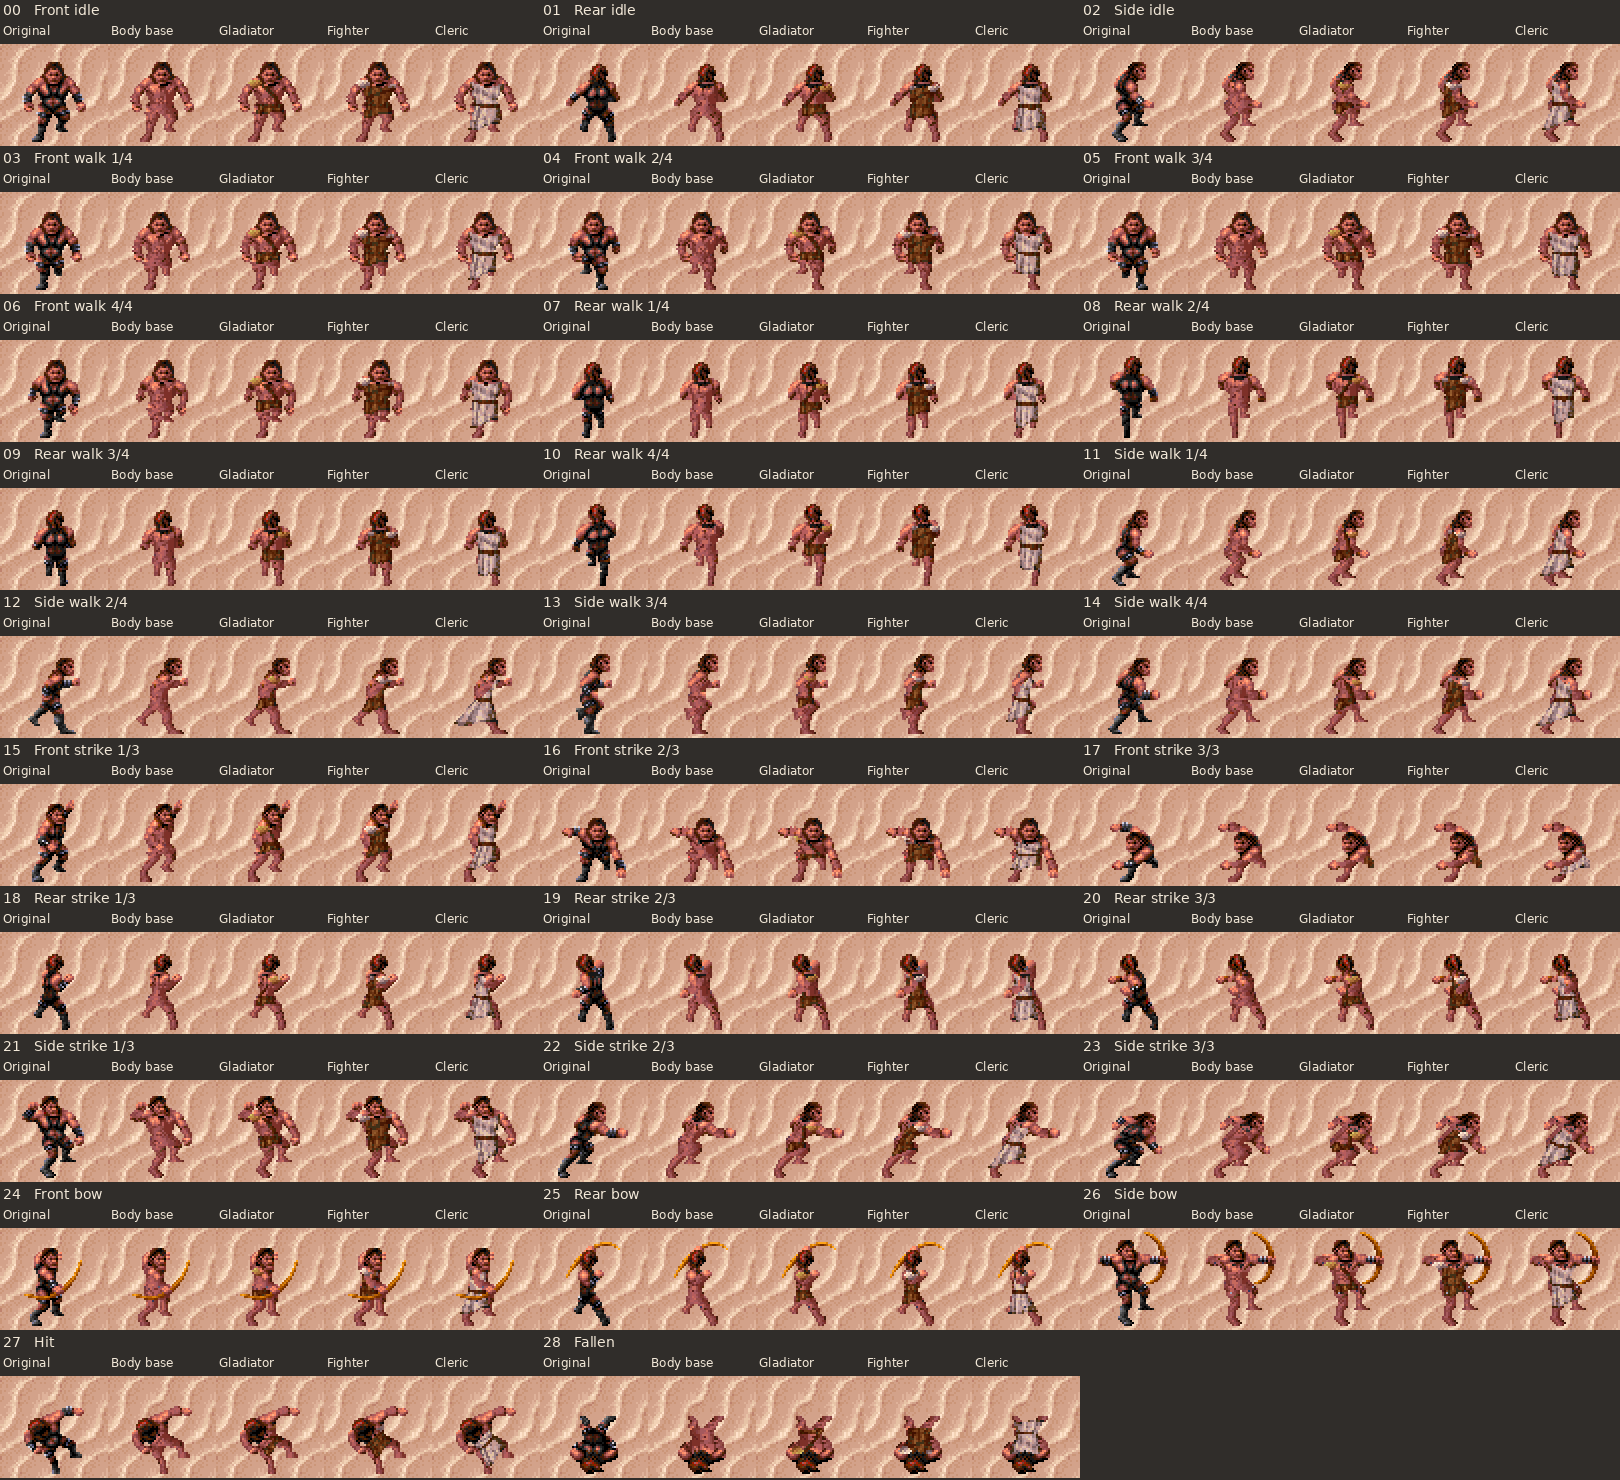
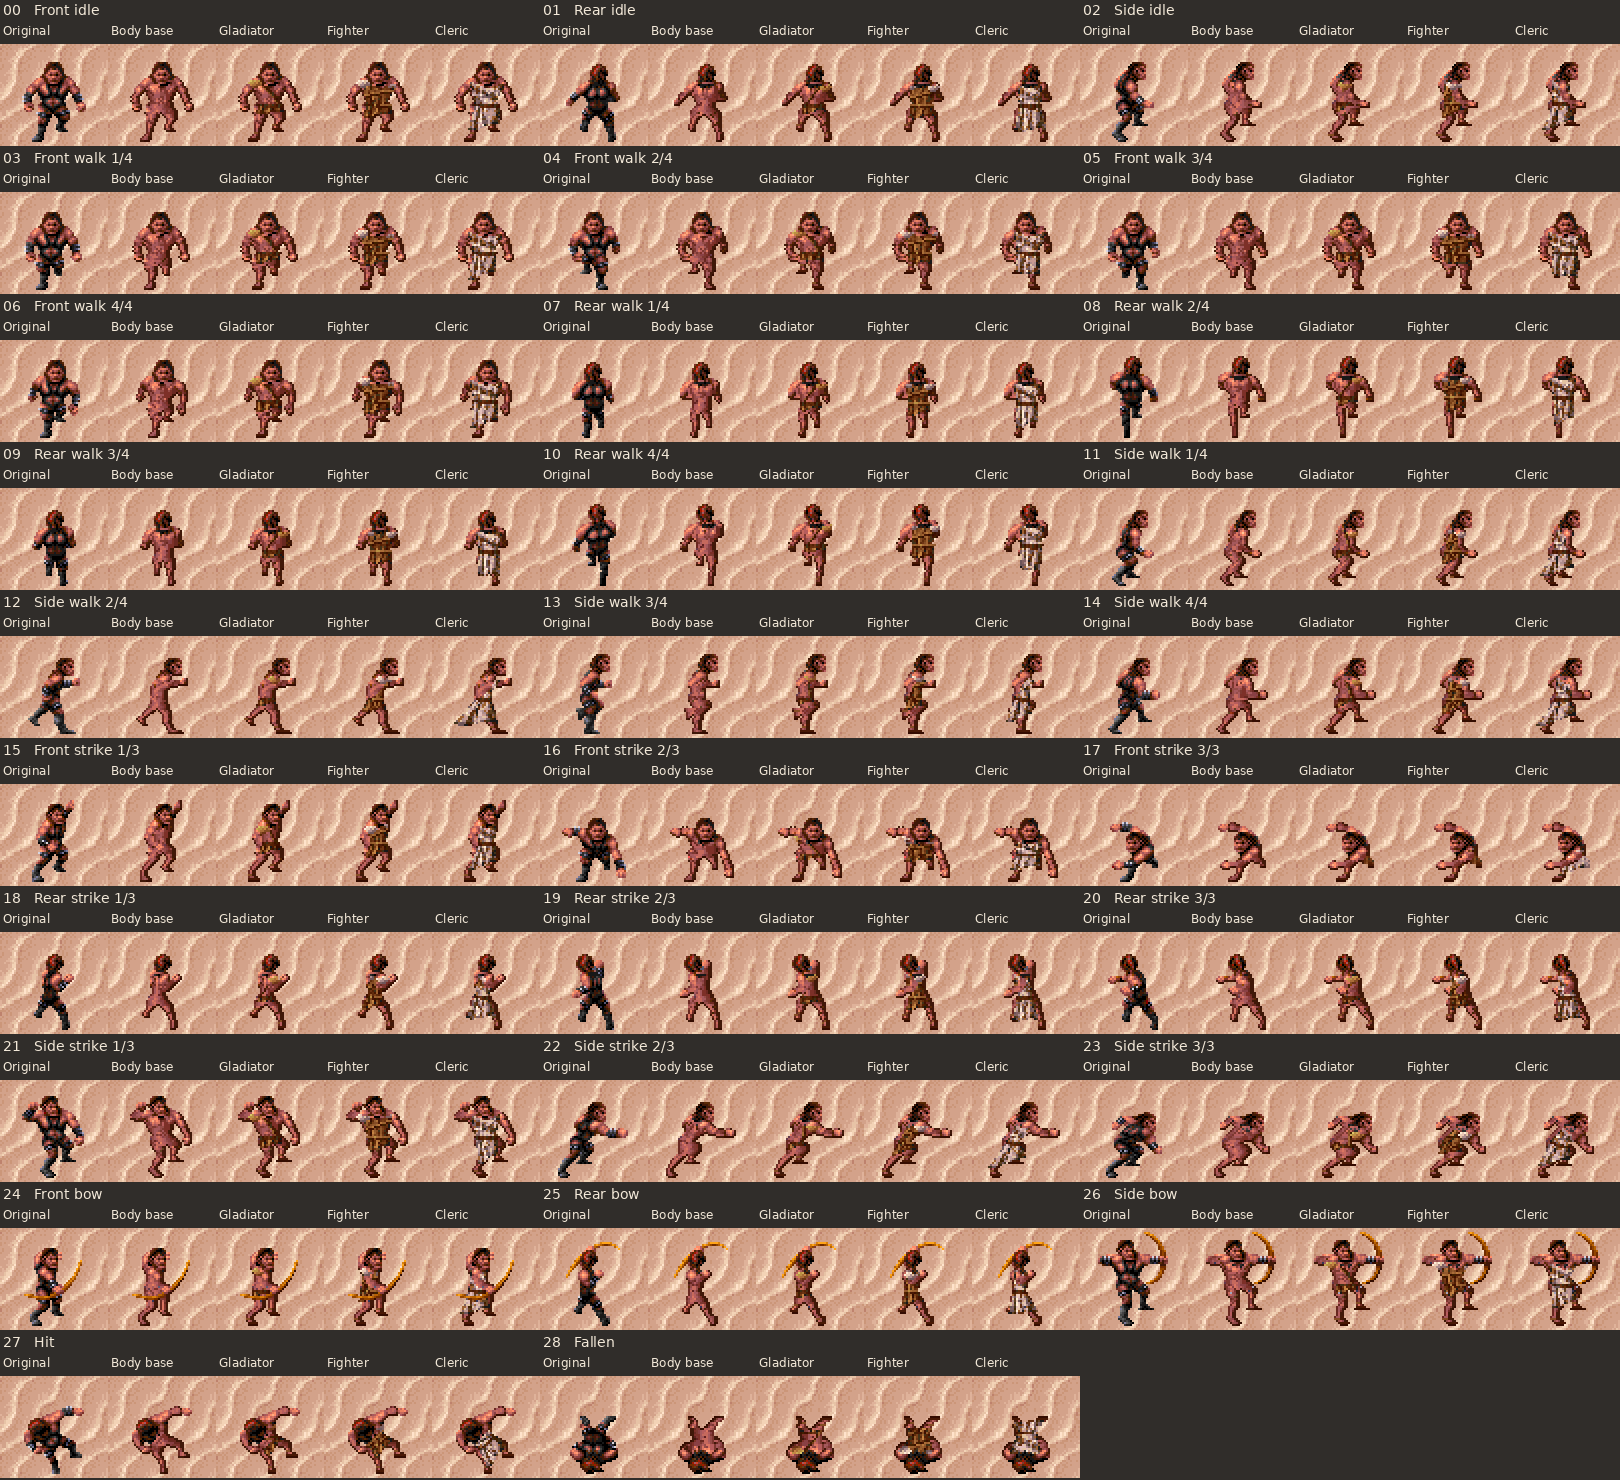
Deepen half-giant material contrast and restore the woman's profile hair

diff --git a/prototypes/halfgiantstudy.py b/prototypes/halfgiantstudy.py
@@ -71,6 +71,7 @@ ARMS = {
 LOW_HEAD = {16: (16, 8, 5, 5), 17: (12, 12, 5, 5), 23: (21, 6, 4, 5),
             27: (7, 13, 5, 6), 28: (12, 6, 5, 5)}
 SKIN = (129, 134, 133, 132, 131, 130, 144, 145, 146, 147, 148, 149, 151)
+LINEN = (208, 204, 207, 205, 92, 194, 206, 97, 121, 61, 199, 123, 125, 62, 63)
 BONE = (207, 205, 194, 206, 121, 199, 62, 63)
 BRONZE = (88, 90, 93, 95, 98, 100, 168, 169, 170)
 STOCK = {16, 17, 18, 19, 20, 21, 22, 23, 24, 25, 26, 27, 28, 29, 48, 49, 50, 51, 52, 194,
@@ -88,6 +89,48 @@ GUARD = ((8, 10), (21, 11), (8, 11), (7, 10), (7, 10), (6, 10), (6, 10), (16, 11
          (15, 11), (17, 11), (19, 11), (12, 11), (15, 10), (9, 11), (16, 11),
          (7, 14), (10, 10), None, (12, 12), (11, 11), (14, 12), (8, 10),
          (19, 12), (17, 11), (9, 11), (10, 16), (8, 16), (15, 9), (18, 11))
+
+
+# Midpoint of each sole on its last visible scanline, in the same upright
+# coordinates as CUTS. Trace the lifted foot separately from the planted one.
+SOLES = (
+    ((7, 39), (20, 34)), ((9, 33), (22, 38)), ((4, 39), (14, 31)),
+    ((8, 38), (17, 31)), ((8, 30), (17, 38)), ((9, 32), (18, 38)),
+    ((8, 38), (16, 30)), ((7, 37), (14, 32)), ((8, 40), (13, 30)),
+    ((8, 32), (15, 37)), ((10, 30), (15, 40)), ((4, 37), (10, 33)),
+    ((4, 33), (19, 37)), ((1, 32), (7, 39)), ((4, 37), (18, 31)),
+    ((2, 40), (14, 35)), ((9, 31), (22, 25)), ((7, 29), (22, 22)),
+    ((2, 31), (15, 37)), ((5, 33), (18, 37)), ((9, 33), (23, 37)),
+    ((14, 40), (23, 32)), ((2, 37), (13, 30)), ((2, 32), (12, 26)),
+    ((6, 38), (17, 33)), ((6, 35), (19, 41)), ((14, 46), (24, 38)),
+    ((16, 33), (26, 25)), ((3, 28), (17, 28)),
+)
+
+
+# Last locks visible over her near shoulder. Retail uses the same charcoal
+# indices for hair shadow and metal. Protect these native scanlines before
+# replacing the harness or outlining the body. Coordinates are hers.
+PROFILE_LOCKS = {
+    2: (9, ((4, 10), (3, 6), (3, 5), (3, 4), (3, 3), (3, 3))),
+    11: (9, ((4, 12), (4, 9), (3, 8), (3, 7), (4, 6))),
+    12: (8, ((5, 17), (6, 15), (7, 11), (8, 9), (8, 8))),
+    13: (9, ((3, 11), (3, 6), (2, 5), (2, 3))),
+    14: (9, ((4, 15), (5, 14), (7, 13), (8, 11))),
+}
+
+
+def sandal(x, y, soles, across):
+    for toe, bottom in soles:
+        rise = bottom - y
+        offset = x - toe
+        if not (0 <= rise <= 4 and abs(offset) <= 4):
+            continue
+        if rise == 0:
+            return 88
+        # Hide sole, an open instep, and a slanted ankle tie.
+        if rise == 1 or rise == 3 + (offset >= 0):
+            return 95 if across < .48 and rise > 1 else 90
+    return None
 
 
 def mix(a, b, t):
@@ -149,36 +192,73 @@ def garment(role, u, t, lower, profile, rear, texture):
     if role == "Cleric" and not lower:
         fold = math.cos(10*t-5*u) * (0.7+0.3*u)
     shade = 5.8 + 3*wrap + 2.2*fold + 0.7*relief
+    # A lapped edge catches the light above the darker return. It bends
+    # with the wearer, so the highlight travels with the same piece of hide.
+    if role == "Cleric":
+        shade += 1.4*fold + 0.4*relief
+        # The cream changes to warm brown where the pleat turns away from
+        # the shoulder. Leave the outer fold light enough to read on sand.
+        if not lower:
+            gather = t - (.70 - .46*u + .12*math.sin(4*u))
+            if -.07 < gather < .11:
+                shade += 3 if gather < 0 else -3.5
+        if lower:
+            pleat = u - (0.32 + 0.16*t*t)
+            if abs(pleat) < .055:
+                shade += 3.5 if pleat < 0 else -4
+    else:
+        shade += 1.2*fold + 0.45*relief
     if min(u, 1-u) < 0.08:
         shade -= 3
     if lower:
         hem = 0.43 if role == "Gladiator" else 0.55 if role == "Fighter" else 1
+        if role == "Gladiator" and (rear or profile):
+            hem -= .13
         hem += 0.08*math.sin(u*5.5+0.6) - (0.1 if profile else 0)*u
         if t > hem:
             return None
         if t < 0.09+0.08*math.sin(u*2.8):
+            if role == "Fighter":
+                # The lower welt of the jerkin sits over a dark sword belt.
+                if .28 < u < .41:
+                    return 168 if t < .07 else 95
+                return pigment(RAMPS["hide"], (11 if t < .045 else 2)+2*wrap+relief*.45)
             return pigment(RAMPS["hide"], 3+4*wrap+relief)
         if t > hem-0.09:
             shade -= 3
         if role == "Cleric" and t > 0.70 and u > 0.69:
             shade -= 2.2
+        if role != "Cleric":
+            lap = u-(.62-.44*t)
+            if -.08 < lap < .10:
+                shade += 5 if lap < 0 else -4
+            if hem-.16 < t <= hem-.08 and .09 < u < .60:
+                shade += 3
         if role == "Gladiator":
             shade += 1.8*math.cos(grain*1.1-t*2)
-        return pigment(RAMPS["linen" if role == "Cleric" else "hide"], shade)
+        return pigment(LINEN if role == "Cleric" else RAMPS["hide"], shade)
     neckline = (0.15 if rear else 0.30)*(1-abs(2*u-1))
     if t < neckline:
         return None
     if role == "Gladiator":
         center = (0.80-0.66*t) if rear else (0.18+0.66*t)
         distance = u-center
-        if abs(distance) > (0.14 if profile else 0.10):
+        half_width = .065 if rear else .105 if profile else .10
+        if abs(distance) > half_width:
             return None
-        return pigment(RAMPS["hide"], 4.5-22*distance+0.6*relief)
+        return pigment(RAMPS["hide"], (11 if distance < -.035 else 3)+.65*relief)
     if role == "Fighter" and t < 0.22 and (u < 0.23 or u > 0.80):
         return pigment(BONE, 2+2.8*(1-t/.22)+0.45*relief)
-    if role == "Fighter" and abs(t-0.79+0.52*u) < 0.075:
-        return pigment(RAMPS["hide"], 3+2*wrap)
-    return pigment(RAMPS["linen" if role == "Cleric" else "hide"], shade)
+    if role == "Fighter":
+        seam = t - (.70 - .42*u + .09*u*u)
+        if -.10 < seam < .08:
+            return pigment(RAMPS["hide"], (12 if seam < -.01 else 2)+wrap+.5*relief)
+        if .12 < u < .25 and t < .63:
+            shade += 2.5
+        lip = u - (.22 + .15*t*t)
+        if -.065 < lip < .045 and .28 < t < .88:
+            shade += 4 if lip < 0 else -4
+    return pigment(LINEN if role == "Cleric" else RAMPS["hide"], shade)
 
 
 def study_rows(game, model, pose, texture):
@@ -194,13 +274,18 @@ def study_rows(game, model, pose, texture):
     dx, dy = FEMALE_OFFSETS[pose] if model == 2074 else (0, 0)
     dx += margin
     shoulder, waist, knee = CUTS[pose]
+    soles = SOLES[pose]
+    if model == 2074 and pose == 27:
+        soles = ((16, 34), soles[1])
     bow = game.bow(fig, native, fig.parts(combat, frame)) if 24 <= pose <= 26 else set()
     # The ankle-length linen opens behind the knee on the long profile
     # steps. Hide panels stop at the thigh and stay close to the leg.
     trail = {2: 2, 11: 3, 12: 5, 13: 2, 14: 4, 22: 3, 23: 2, 24: 2}.get(pose, 0)
     linen_knee = (knee[0]-trail, knee[1]+1, knee[2], knee[3]+1)
     pieces = {role: [r[:] for r in source] for role in ROLES[1:]}
+    locks_start, locks = PROFILE_LOCKS.get(pose, (0, ())) if model == 2074 else (0, ())
     for sy, row in enumerate(source):
+        lock = locks[sy-locks_start] if 0 <= sy-locks_start < len(locks) else None
         # Each contiguous leg/arm has its own light plane; a gap keeps its
         # native width even when the far leg crosses behind the near one.
         runs = []
@@ -214,6 +299,8 @@ def study_rows(game, model, pose, texture):
             for sx in range(left, right+1):
                 x, y = sx-dx, sy-dy
                 c = row[sx]
+                if lock and lock[0] <= sx-margin <= lock[1]:
+                    continue
                 u, t = fabric_coords(x, y, shoulder, waist)
                 v, h = fabric_coords(x, y, waist, knee)
                 in_top = 0 <= u <= 1 and 0 <= t < 1
@@ -248,7 +335,31 @@ def study_rows(game, model, pose, texture):
                     else:
                         ridge = abs(across-0.34)
                         grain = ((sx+2*sy) % 5 == 1)-((sx+sy) % 4 == 0)
-                        body = pigment(SKIN, 7.7-11*ridge+grain-1.2*(y > knee[1]))
+                        body = pigment(SKIN, 8.8-16*ridge+grain-1.6*(y > knee[1]))
+                # Keep the warm highlight on the upper-left plane. The
+                # shadow side and underside meet the sand in a broken outline.
+                below = sy+1 == len(source) or source[sy+1][sx] is None
+                if sx == right or below:
+                    body = 88 if below and (sx == right or across > .45) else 129
+                elif sx == left and (c in STOCK or deep):
+                    body = 134
+                elif right-sx == 1 and body in SKIN:
+                    body = SKIN[max(0, SKIN.index(body)-3)]
+                if (pose in REAR and in_top and not near_arm and .14 < t < .70
+                        and body in SKIN and sx not in (left, right)):
+                    # Two scapular planes turn away from the spine, visible
+                    # beneath the diagonal strap. Leave the neck and hair free.
+                    blade = abs(abs(2*u-1)-(.48-.17*t))
+                    if blade < .17:
+                        body = SKIN[min(len(SKIN)-1, SKIN.index(body)+2)]
+                    elif abs(u-.54) < .07:
+                        body = SKIN[max(0, SKIN.index(body)-2)]
+                foot = sandal(x, y, soles, across)
+                # In these two crossing profile steps the back foot lies
+                # directly beside the planted shin. Only its toes take a sole.
+                if (pose == 11 and x <= 6 and 29 <= y <= 32
+                        or pose == 13 and x >= 4 and 28 <= y <= 32):
+                    foot = None
                 pieces["Body base"][sy][sx] = body
                 for role in ROLES[2:]:
                     paint = None
@@ -271,6 +382,11 @@ def study_rows(game, model, pose, texture):
                     if pose == 17 and 17 <= y <= 22 and x >= 19 and not near_arm:
                         ramp = RAMPS["linen" if role == "Cleric" else "hide"]
                         paint = pigment(ramp, 8+.7*(20-x)+texture[y % 8][x % 8])
+                    # On the tucked front strike the far toes turn up
+                    # against the hip. They cross in front of the short wrap.
+                    if paint is None or (pose == 17 and x >= 20 and y >= 21
+                                         and foot is not None and role != "Cleric"):
+                        paint = foot
                     pieces[role][sy][sx] = body if paint is None else paint
     # Bridge the panel between the thighs. Extend the cloth only inside the
     # hem, so the native stride shows through again below the knees.

diff --git a/obsidian-edition/docs/class-outfits/half-giants.md b/obsidian-edition/docs/class-outfits/half-giants.md
@@ -8,7 +8,13 @@ Follow either row across the animation to see the original half-giant, the clean
 
 The Gladiator wears a bronze guard and a diagonal strap that crosses the ribs and tucks into a short hide wrap. The Fighter wears a sleeveless leather jerkin with pale bone at the shoulders. The Cleric’s cream robe gathers at the belt and opens around the advancing shin. Compare the four profile steps to see the near arm pass across each garment. Front strike 3 shows the greatest foreshortening, with only the overlapping edge of the Gladiator’s wrap visible behind the arm.
 
-The study uses retail pictures 2072/2073 for the man and 2074/2075 for the woman. The body preserves each original pose’s silhouette and foot placement. The exposed limbs use the figure’s own skin palette. The robe draws its fold shading from the retail Priest.
+The rear idle shows the Gladiator’s narrow strap crossing the exposed shoulder blades. Beside it, the Fighter’s jerkin closes over the back with a lapped seam and a dark sword belt. On the third profile step, the lit edge of the short hide wrap turns with the hip. The Cleric’s deeper tan fold shows where the cream cloth doubles back over the advancing knee.
+
+The cleaned bodies have bare feet. Each of the three outfits adds an open leather sandal with a dark sole and ankle tie. Follow the lifted heel and the planted toes across the profile walk. [Compare the previous and revised figures beside the retail Warrior, retail Priest, and approved human outfits](half-giant-materials.png)
+
+In the woman’s third profile step, two charcoal pixels join the lower lock to the hair above her shoulder. The base and each garment retain the retail hair through profile idle and all four steps. [Inspect the shoulder and hair at 4×](half-giant-profile-hair.png)
+
+The study uses retail pictures 2072/2073 for the man and 2074/2075 for the woman. The body preserves each original pose’s silhouette and foot placement. The exposed limbs retain the figure’s skin tones, with a deep brown edge under the foot and on the shadow side of the calf. The robe draws its fold shading from the retail Priest.
 
 ## Remaining artwork
 
